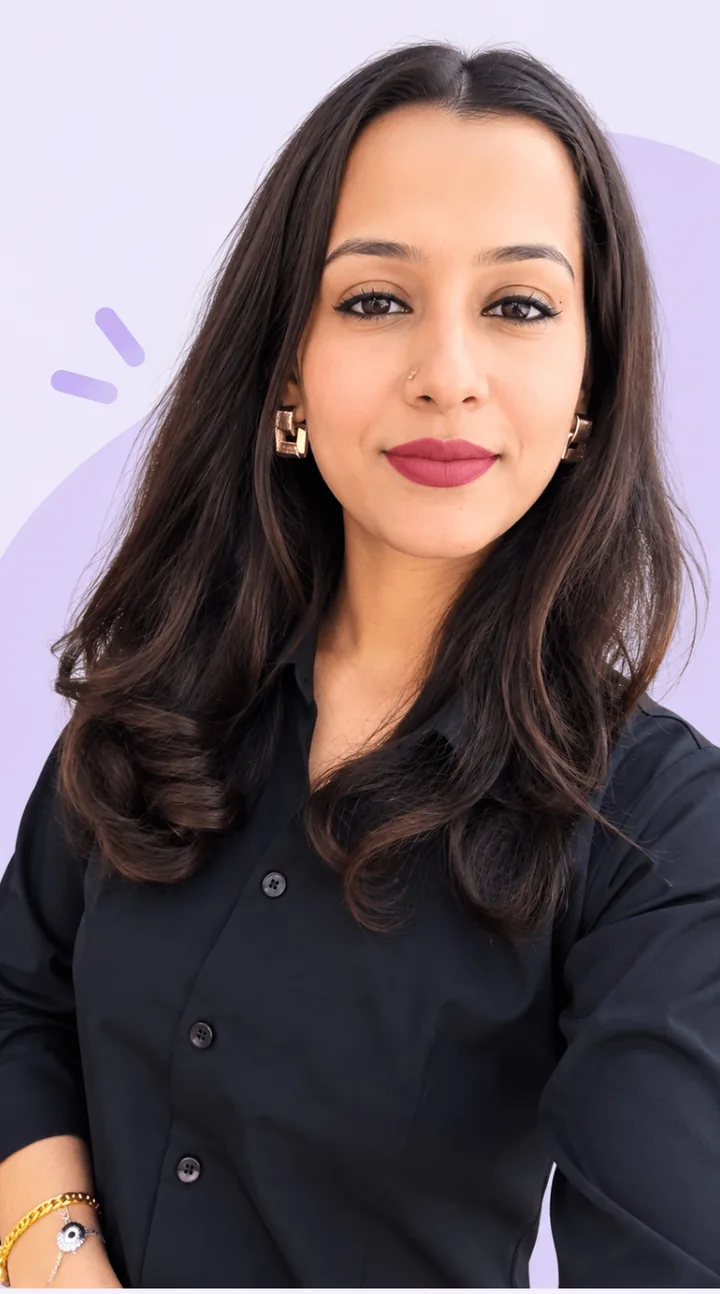
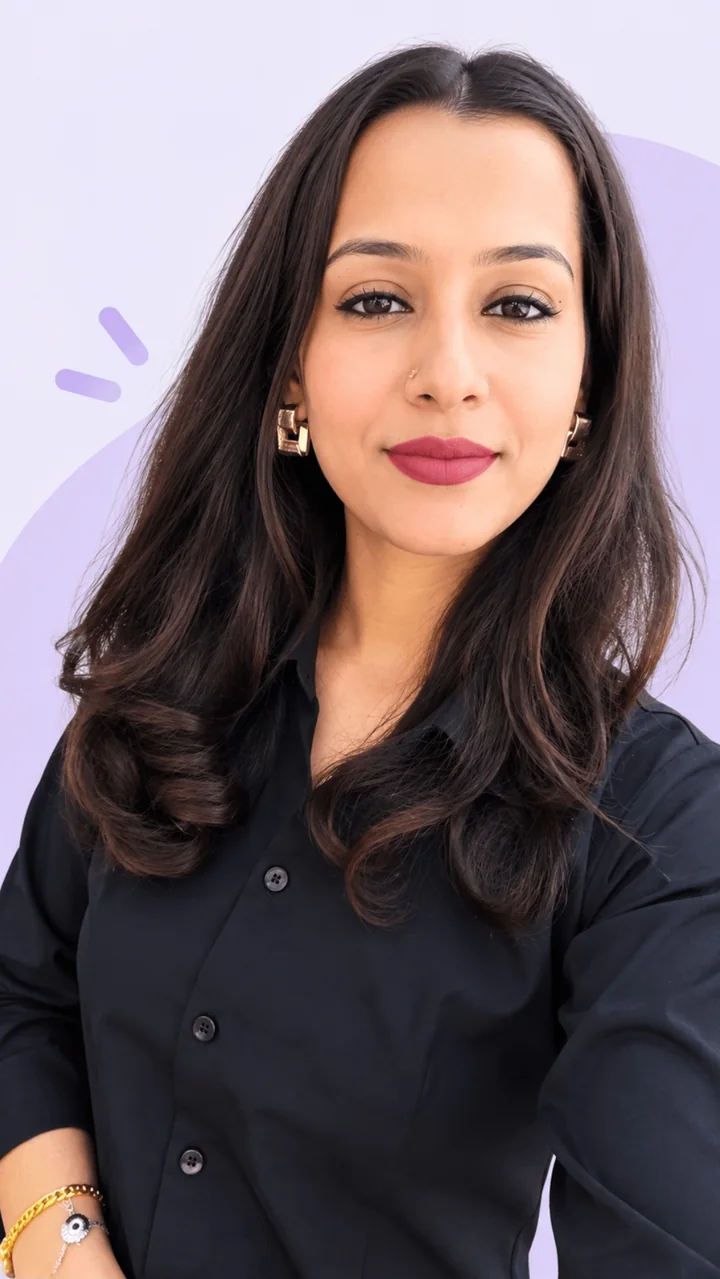
Founder photos in full (new source framing, no zoom crop, story page fits screen); course deck: no empty band on tall/wide screens
Claude-Session: https://claude.ai/code/session_018tkHfpRg9YGgTJfw74iWSp

diff --git a/src/components/motion.tsx b/src/components/motion.tsx
@@ -329,17 +329,23 @@ export function Orbit({ head, children }: { head: ReactNode; children: ReactNode
     // Pin: once the heading and the whole deck are on screen, the section holds still for a short scroll
     // while the deck opens (CSS sticky, so the browser does the holding with no extra work), then moves on.
     const wr = wrapEl.current!, pn = pinEl.current!, sp = wr.querySelector('.orbit-pinspace') as HTMLElement
-    let pinPx = 1, pinTop = 0, wrapTop = 0
-    const measure = () => { pinPx = Math.round(innerHeight * (innerWidth < 641 ? .5 : .46)); sp.style.height = pinPx + 'px'
+    let pinPx = 1, pinTop = 0, wrapTop = 0, startRel = 0, fanLen = 1
+    const measure = () => { const hold = Math.round(innerHeight * (innerWidth < 641 ? .5 : .46))
       // short screens: shrink the deck just enough that the heading and the whole deck fit together
       // (very short screens, like a phone held sideways, fit the deck alone)
       st.style.zoom = ''; const h0 = pn.offsetHeight, sh = st.offsetHeight, room = innerHeight - 16
       if (h0 > room) { let f = (room - 26 - (h0 - sh)) / sh; if (f < (innerWidth > innerHeight ? .74 : .58)) f = Math.min(1, (room - 64) / sh); st.style.zoom = String(Math.max(.5, f).toFixed(3)) }
-      const h = pn.offsetHeight; pinTop = h <= innerHeight - 16 ? Math.round((innerHeight - h) / 2) : Math.round(innerHeight - h - 8); pn.style.top = pinTop + 'px'
+      // wide PC screens: grow the deck a little so heading + deck fill the screen (no empty band while it opens)
+      else if (innerWidth >= 1000 && innerWidth > innerHeight && h0 < room - 40) { const f = Math.min(1.2, (room - 30 - (h0 - sh)) / sh); if (f > 1.01) st.style.zoom = f.toFixed(3) }
+      const h = pn.offsetHeight; pinTop = h <= innerHeight - 16 ? Math.min(Math.round((innerHeight - h) / 2), 72) : Math.round(innerHeight - h - 8); pn.style.top = pinTop + 'px'
+      // the deck starts opening as soon as it is fully on screen; tall screens use that free scroll first,
+      // so the hold (empty space) is only what is still needed
+      startRel = Math.max(pinTop, Math.round(innerHeight - h - 8)); fanLen = hold * .86
+      pinPx = Math.max(0, hold - (startRel - pinTop)); sp.style.height = pinPx + 'px'
       wrapTop = wr.getBoundingClientRect().top + scrollY }
     measure(); const ro = new ResizeObserver(measure); ro.observe(pn); ro.observe(document.body); addEventListener('resize', measure)
     // progress straight from the scroll position: no layout read per frame
-    const fanP = () => Math.max(0, Math.min(1, (pinTop - (wrapTop - scrollY)) / (pinPx * .86))) // finishes inside the hold, leaving room for the glide
+    const fanP = () => Math.max(0, Math.min(1, (startRel - (wrapTop - scrollY)) / fanLen)) // finishes inside the hold, leaving room for the glide
     const ease = (k: number) => k * k * k * (k * (k * 6 - 15) + 10)
     const spring = (k: number) => { const t = ease(k); return t + Math.sin(Math.PI * t) * .06 * t }
     let forced = false

diff --git a/src/pages/Public.tsx b/src/pages/Public.tsx
@@ -29,7 +29,7 @@ export function About() {
     <section className="sec tight"><div className="wrap">
       <div className="head center rv"><span className="eyebrow">The people behind Crafted Skills</span><h2 className="h2">Meet Our Founders</h2><p className="lead">A shared mission to make digital skills accessible to everyone, in Kannada.</p></div>
       <div className="founders">{FOUNDERS.map((f) => <article key={f.name} className="card fnd rv">
-        <div className="ph"><img src={f.photo} alt={`${f.name}, ${f.role} of Crafted Skills`} loading="lazy" width="720" height="1292" /></div>
+        <div className="ph"><img src={f.photo} alt={`${f.name}, ${f.role} of Crafted Skills`} loading="lazy" width="720" height="1279" /></div>
         <div><span className="role">{f.role}</span><h3>{f.name}</h3><div className="pl">{f.place}</div>{f.bio.slice(0, 2).map((b) => <p key={b} style={{ marginBottom: 10 }}>{b}</p>)}<Link to={`/founders/${f.name.toLowerCase()}`} className="link">Read her full story →</Link></div>
       </article>)}</div>
     </div></section>
@@ -76,7 +76,7 @@ export function FounderPage() {
   return <>
     <Seo title={`${f.name}, ${f.role} of Crafted Skills | Crafted Skills (CraftedSkills)`} desc={f.bio[0]} />
     <section className="fhero"><div className="wrap fgrid">
-      <div className="fphoto"><div className="fframe"><img src={f.photo} alt={`${f.name}, ${f.role} of Crafted Skills`} width="720" height="1292" fetchPriority="high" /></div>
+      <div className="fphoto"><div className="fframe"><img src={f.photo} alt={`${f.name}, ${f.role} of Crafted Skills`} width="720" height="1279" fetchPriority="high" /></div>
         <div className="fbadge"><Mark className="bm" /><div><b>{f.role}</b><span>Crafted Skills</span></div></div></div>
       <div className="fcopy">
         <div className="crumbs"><Link to="/">Home</Link> / <Link to="/about">About us</Link> / {f.name}</div>

diff --git a/src/styles.css b/src/styles.css
@@ -1097,8 +1097,8 @@ textarea.input{height:auto;min-height:130px;padding:14px 16px;resize:vertical}
 .nav-back .mini.he{animation-duration:.5s,6.5s!important}
 .nav-back .arch-in img{animation-duration:.6s,16s!important}
 /* founder photos: frame matches the photo, so the full picture shows (nothing cropped) */
-.fnd .ph,.fnd .ph{aspect-ratio:720/1294}
-@media (max-width:1100px){.fnd .ph{aspect-ratio:720/1294}}
+.fnd .ph,.fnd .ph{aspect-ratio:720/1279}
+@media (max-width:1100px){.fnd .ph{aspect-ratio:720/1279}}
 .fnd .ph img{object-position:50% 0}
 /* student photos shown in full (no crop), larger, like the current craftedskills.in */
 .tcard .who{align-items:center;gap:16px}
@@ -1115,3 +1115,8 @@ textarea.input{height:auto;min-height:130px;padding:14px 16px;resize:vertical}
 .hero-grid{min-height:0}
 /* 901-1100px (tablets, phone desktop-site mode): photo band on top, text below - same as tablets */
 @media (min-width:901px) and (max-width:1100px){.hero-grid{grid-template-columns:1fr;gap:26px}}
+/* founder story page: whole photo, no crop */
+.fframe,.fframe{aspect-ratio:720/1279}
+.fframe img{object-position:50% 0}
+@media (max-width:900px){.fframe{aspect-ratio:720/1279}.fphoto{max-width:400px}}
+@media (min-width:901px){.fphoto{width:min(100%,calc((100svh - 130px) * .5629))}}

diff --git a/src/pages/Home.tsx b/src/pages/Home.tsx
@@ -175,7 +175,7 @@ export default function Home() {
       <div className="wrap">
         <div className="head center rv"><span className="eyebrow">The people behind Crafted Skills</span><SplitH text="Meet Our Founders" /><p className="lead">A shared mission to make digital skills accessible to everyone, in Kannada.</p></div>
         <div className="founders stg">{FOUNDERS.map((f) => <Parallax key={f.name} className="card fnd">
-          <div className="ph para"><img src={f.photo} alt={`${f.name}, ${f.role} of Crafted Skills`} loading="lazy" width="720" height="1292" /></div>
+          <div className="ph"><img src={f.photo} alt={`${f.name}, ${f.role} of Crafted Skills`} loading="lazy" width="720" height="1279" /></div>
           <div><span className="role">{f.role}</span><h3>{f.name}</h3><div className="pl">{f.place}</div>
             {(f.name === 'Rachana' ? [0, 1, 3] : [0, 3]).map((k) => <p key={k} style={{ marginTop: k ? 10 : 0 }}>{f.bio[k]}</p>)}
             <p style={{ marginTop: 14 }}><Link to={`/founders/${f.name.toLowerCase()}`} className="link">Read her full story →</Link></p></div>
